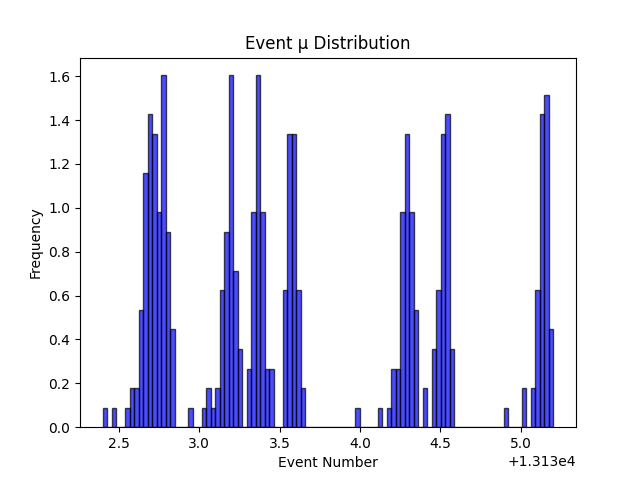
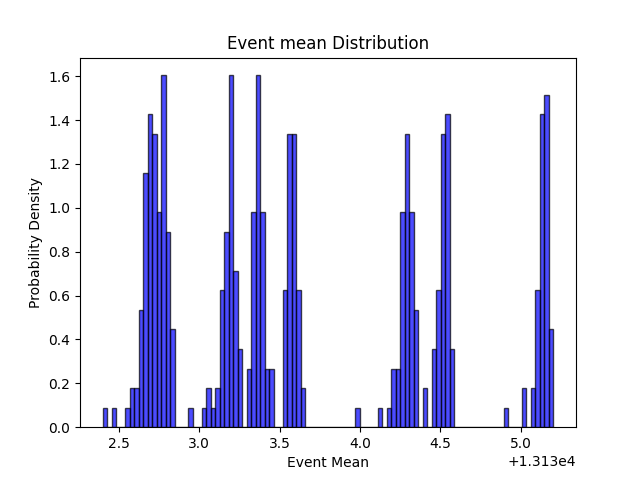
Adjust plot labels

Changed region(s): [[0.3438, 0.0625, 0.6875, 0.125], [0.0312, 0.375, 0.0625, 0.6562], [0.4375, 0.9375, 0.5938, 1.0]]

diff --git a/src/logbook-chapters/24-04-04/24-04-04-file3.md b/src/logbook-chapters/24-04-04/24-04-04-file3.md
@@ -14,7 +14,7 @@ Additionally, while the scatter plot provides valuable insight into the overall 
 Overall, the scatter plot serves as a preliminary assessment of baseline correspondence, highlighting areas of consistency and potential variability within the waveform data. Further analysis and validation are recommended to confirm the robustness of these findings and their implications for signal characterization and interpretation.
 
 <div style="text-align:center">
-    <img src="./images/1.1_ADC_Distribution.png" style="width:100%;max-width:800px">
+    <img src="./images/1.1_Delta_Distribution.png" style="width:100%;max-width:800px">
 </div>
 
 Furthermore, we proceeded by plotting the ADC distribution and a closer examination reveals a central tendency around zero, with a symmetrical and bell-shaped appearance reminiscent of a Gaussian distribution. This observation suggests a normal correspondence between the mean values of the two baseline portions, further supporting the notion of consistent signal characteristics across the waveform baseline.
@@ -27,15 +27,15 @@ By identifying the normal distribution pattern within the ADC values, we gain co
 
 ### Distributions
 <div style="text-align:center">
-    <img src="./images/2.0_Baseline_mu_Distribution.png" style="width:100%;max-width:800px">
+    <img src="./images/2.0_Baseline_Mean_Distribution.png" style="width:100%;max-width:800px">
 </div>
 
 <div style="text-align:center">
-    <img src="./images/2.1_Baseline_sigma_Distribution.png" style="width:100%;max-width:800px">
+    <img src="./images/2.1_Baseline_Sigma_Distribution.png" style="width:100%;max-width:800px">
 </div>
 
 <div style="text-align:center">
-    <img src="./images/3.0_Event_mean_Distribution.png" style="width:100%;max-width:800px">
+    <img src="./images/3.0_Event_Mean_Distribution.png" style="width:100%;max-width:800px">
 </div>
 
 <div style="text-align:center">
@@ -51,5 +51,3 @@ By identifying the normal distribution pattern within the ADC values, we gain co
 <div style="text-align:center">
     <img src="./images/3.2_Baseline_mean_T_Trend.png" style="width:100%;max-width:800px">
 </div>
-
-> In the histograms, the value of the y-axis are normalized: they are calculated using the PDF.
